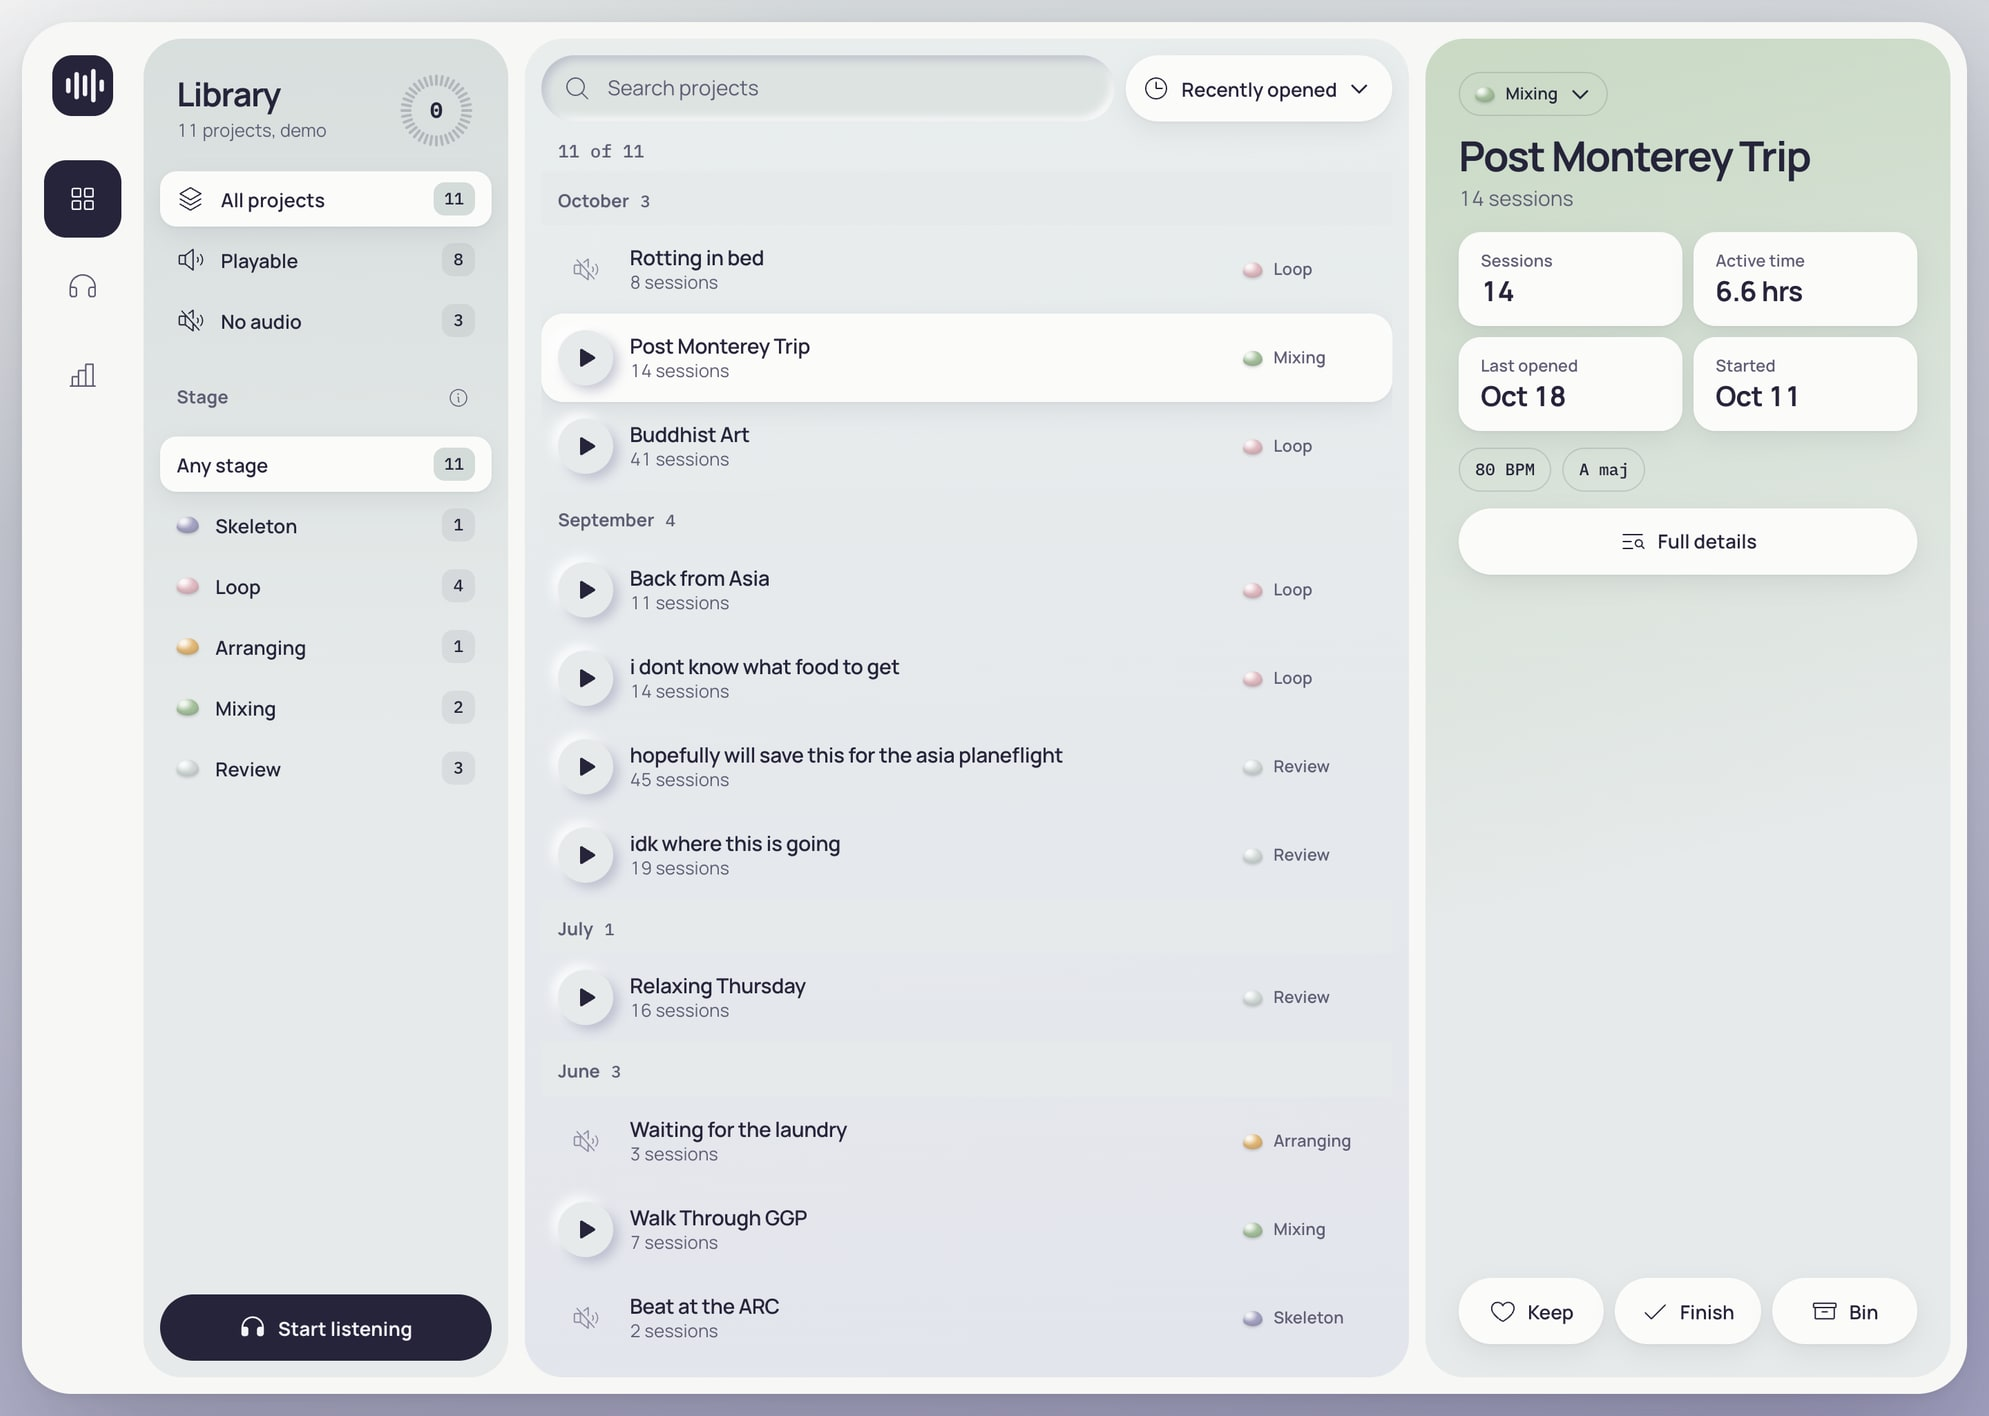
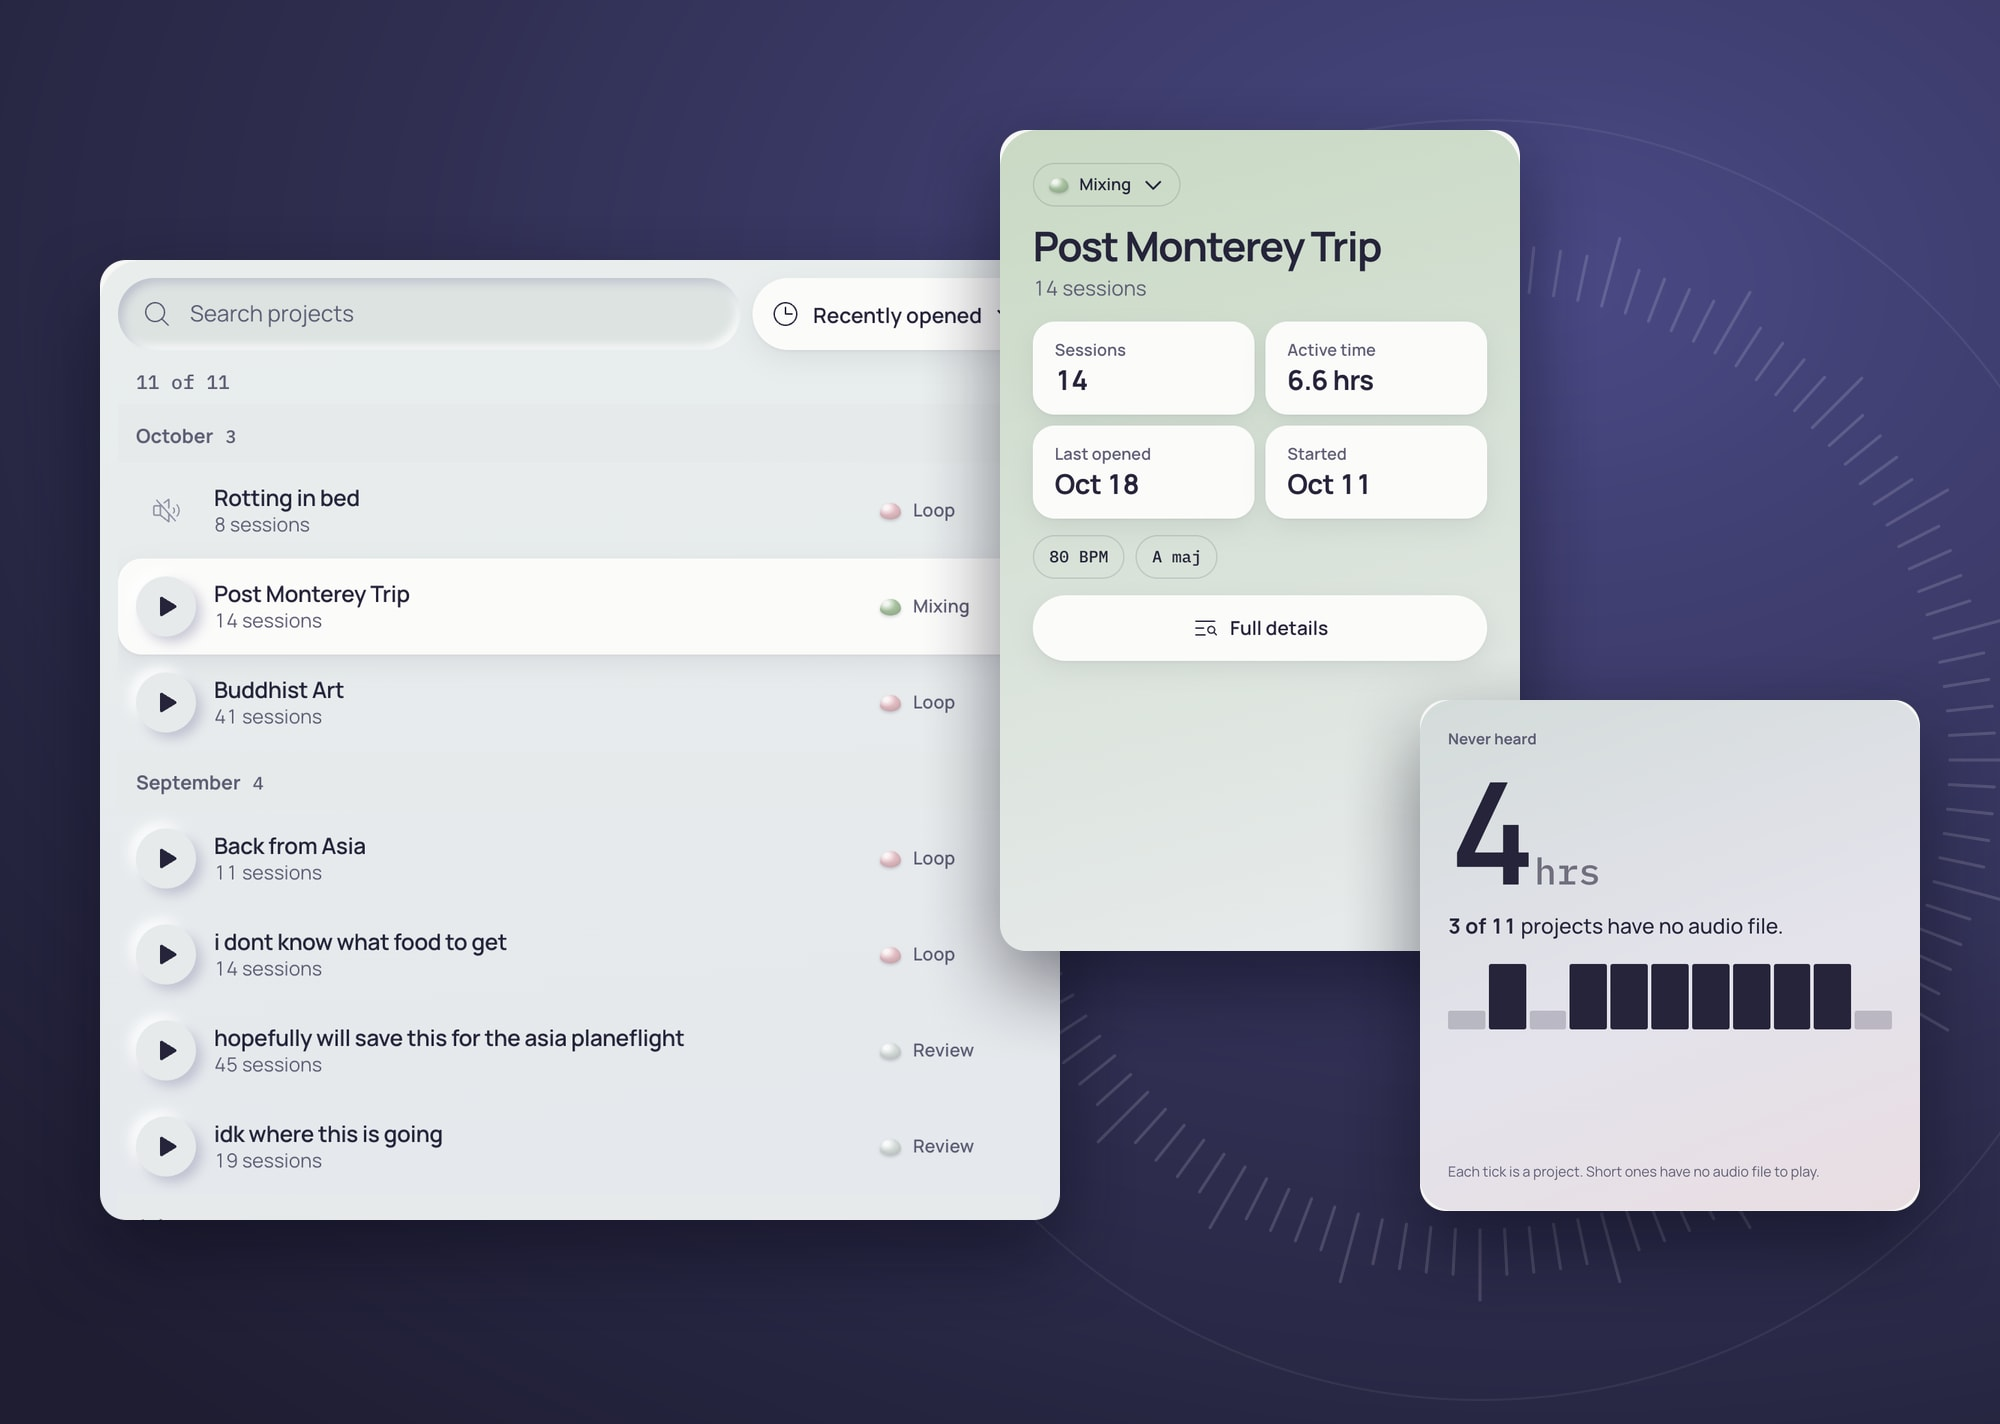
Crate: a proper cover in the style of the other projects, Crate's indigo with its Listen ring and three real pieces of its UI (scripts/capture-crate-ui.mjs, scripts/make-crate-cover.mjs)

diff --git a/src/data/projects.ts b/src/data/projects.ts
@@ -1,6 +1,6 @@
 import moober from '../assets/covers/moober-cover.jpg';
 import buzzit from '../assets/covers/buzzit-cover.jpg';
-import crate from '../assets/covers/crate-cover.jpg';   // a capture of the live app
+import crate from '../assets/covers/crate-cover.jpg';   // made by scripts/make-crate-cover.mjs
 
 export const projects = [
   {
@@ -32,6 +32,6 @@ export const projects = [
     meta: ['Side project', 'Web'],
     summary: 'A home for my unfinished beats, each one sorted by how far along it is.',
     cover: crate,
-    alt: 'Crate, a music project library: beats listed by month with their sessions and stage, and Post Monterey Trip open with its stats.',
+    alt: 'Crate on its deep indigo: the library of beats with their stages, Post Monterey Trip open with its sessions and active time, and a recap tile reading 4 hours never heard.',
   },
 ];
